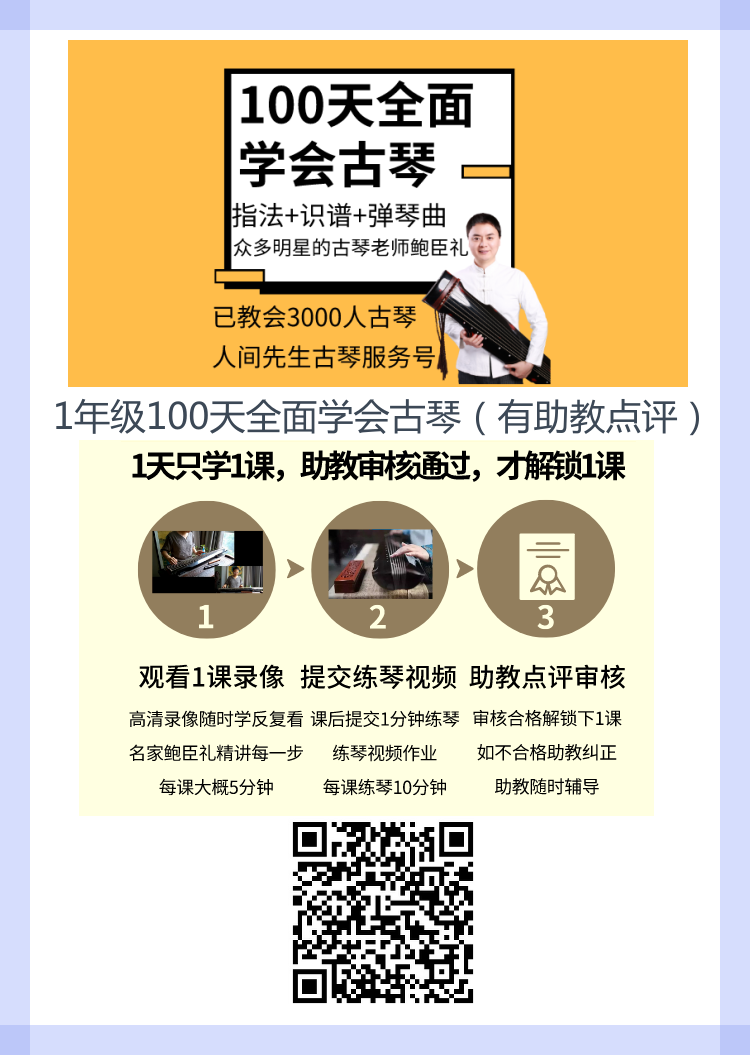
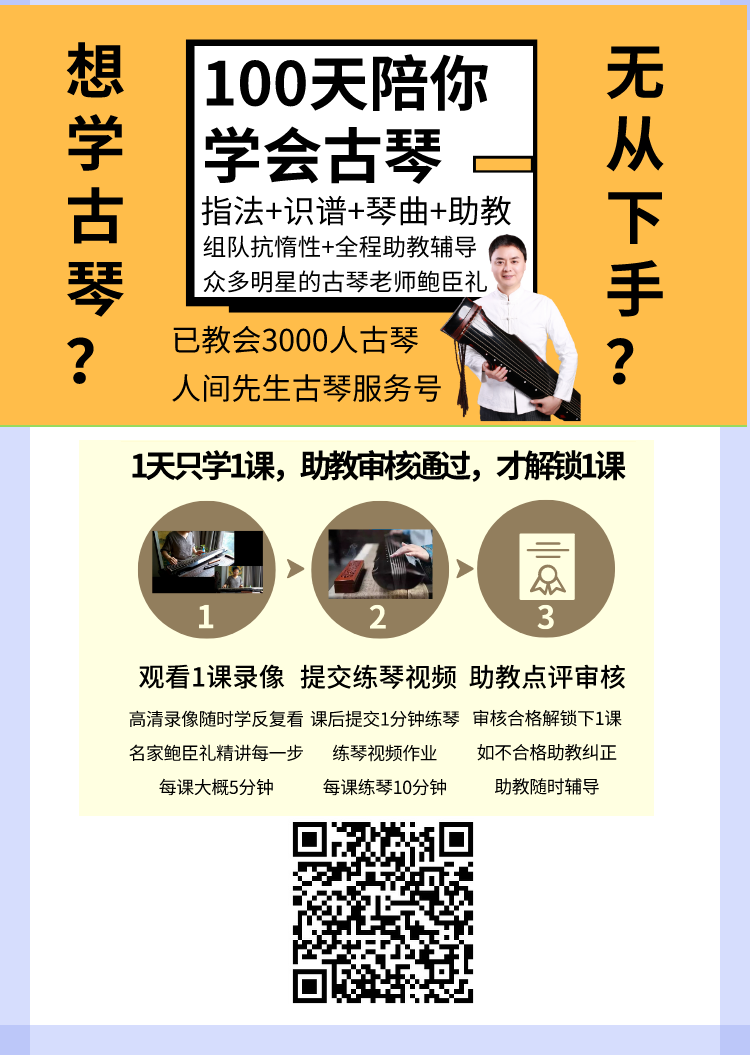
update

Changed region(s): [[0.0, 0.0, 1.0, 0.4246]]

diff --git a/index.html b/index.html
@@ -94,11 +94,11 @@
 <br>
 <br>
  <h4 style="margin-top: 30;">主打在线课程<br>
-《古琴零基础一年级百日筑基81课》<br>
-——真人助教点评辅导督学课<br></h4>
+《1年级100天陪你全面学会古琴（指法+识谱+弹琴曲）》<br>
+——100天真人助教在线点评辅导<br></h4>
 <br>
 加入人间先生古琴·100天琴客入门计划，<br>
-每月我们提供10张免费古琴供在线学员免费使用，<br>
+每月我们提供30张免费古琴供在线学员免费使用，<br>
 五音不全、零基础、无任何音乐基础均可报名，<br>
 <br>
 <h3>“人间先生古琴·在线学堂”独创【在线学古琴三步曲】学习法：</h3>
@@ -107,14 +107,14 @@
 第三步，每课后真人助教在线督学点评审核你的练琴视频辅导答疑，审核通过后方可继续学习下一课；<br>
 <br>
 以此类推完成全部一年级81课的全部课程的在线学习，<br>
-<h3>在线学习81课后，可掌握：古琴的左右手基本指法和基本技法10多个+10多首古琴练习曲+1~2首宋代古琴曲。</h3><br>
+<h3>在线学习81课后，可掌握：古琴的左右手基本指法和基本技法10多个+10多首古琴练习曲+2首宋代古琴曲。</h3><br>
 还设有学员班级微信群方便交流答疑解惑，<br>
 <br>
 然后可申请考级，通过后升入二年级继续在线学习。<br>
 以此类推，在线课程共十个年级。<br>
 <br>
 定期举办在线直播互动答疑课，<br>
-定期举办在北京总部的鲍老师亲授线下提高集训课，<br>
+定期举办在人间先生古琴北京总部的鲍臣礼老师亲授线下提高集训课，<br>
 定期举办走访祖国名山大川、世界各地名胜古迹的游学活动，<br>
 优秀学员可申请成为"古琴助教“直至“古琴讲师”开设属于自己的古琴馆。<br>
 <br>

diff --git a/zh-cn.html b/zh-cn.html
@@ -94,11 +94,11 @@
 <br>
 <br>
 <h4 style="margin-top: 30;">主打在線課程<br>
-《古琴零基礎壹年級百日築基81課》<br>
-——真人助教點評輔導督學課<br></h4>
+《1年級100天陪妳全面學會古琴（指法+識譜+彈琴曲）》<br>
+——100天真人助教在線點評輔導<br></h4>
 <br>
 加入人間先生古琴·100天琴客入門計劃，<br>
-每月我們提供10張免費古琴供在線學員免費使用，<br>
+每月我們提供30張免費古琴供在線學員免費使用，<br>
 五音不全、零基礎、無任何音樂基礎均可報名，<br>
 <br>
 <h3>“人間先生古琴·在線學堂”獨創【在線學古琴三步曲】學習法：</h3>
@@ -107,14 +107,14 @@
 第三步，每課後真人助教在線督學點評審核妳的練琴視頻輔導答疑，審核通過後方可繼續學習下壹課；<br>
 <br>
 以此類推完成全部壹年級81課的全部課程的在線學習，<br>
-<h3>在線學習81課後，可掌握：古琴的左右手基本指法和基本技法10多個+10多首古琴練習曲+1~2首宋代古琴曲。</h3><br>
+<h3>在線學習81課後，可掌握：古琴的左右手基本指法和基本技法10多個+10多首古琴練習曲+2首宋代古琴曲。</h3><br>
 還設有學員班級微信群方便交流答疑解惑，<br>
 <br>
 然後可申請考級，通過後升入二年級繼續在線學習。<br>
 以此類推，在線課程共十個年級。<br>
 <br>
 定期舉辦在線直播互動答疑課，<br>
-定期舉辦在北京總部的鮑老師親授線下提高集訓課，<br>
+定期舉辦在人間先生古琴北京總部的鮑臣禮老師親授線下提高集訓課，<br>
 定期舉辦走訪祖國名山大川、世界各地名勝古跡的遊學活動，<br>
 優秀學員可申請成為"古琴助教“直至“古琴講師”開設屬於自己的古琴館。<br>
 <br>
